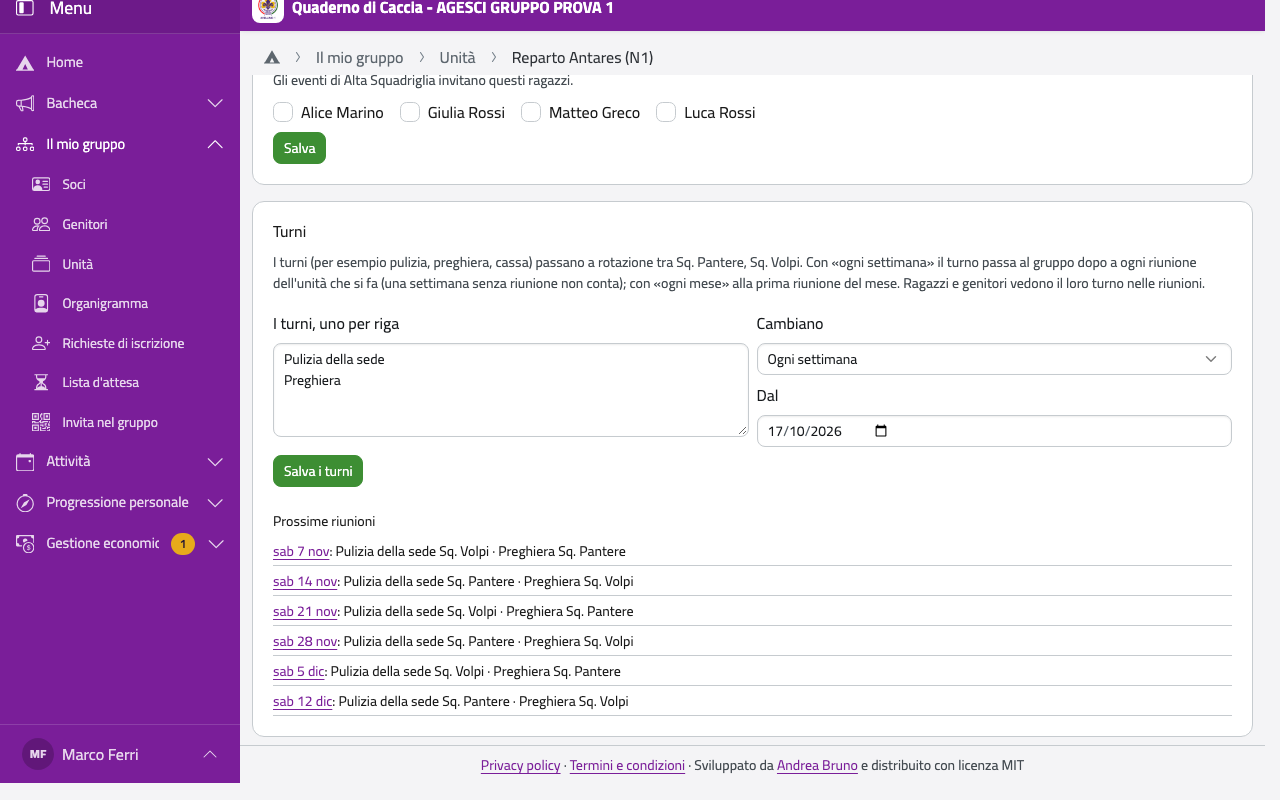
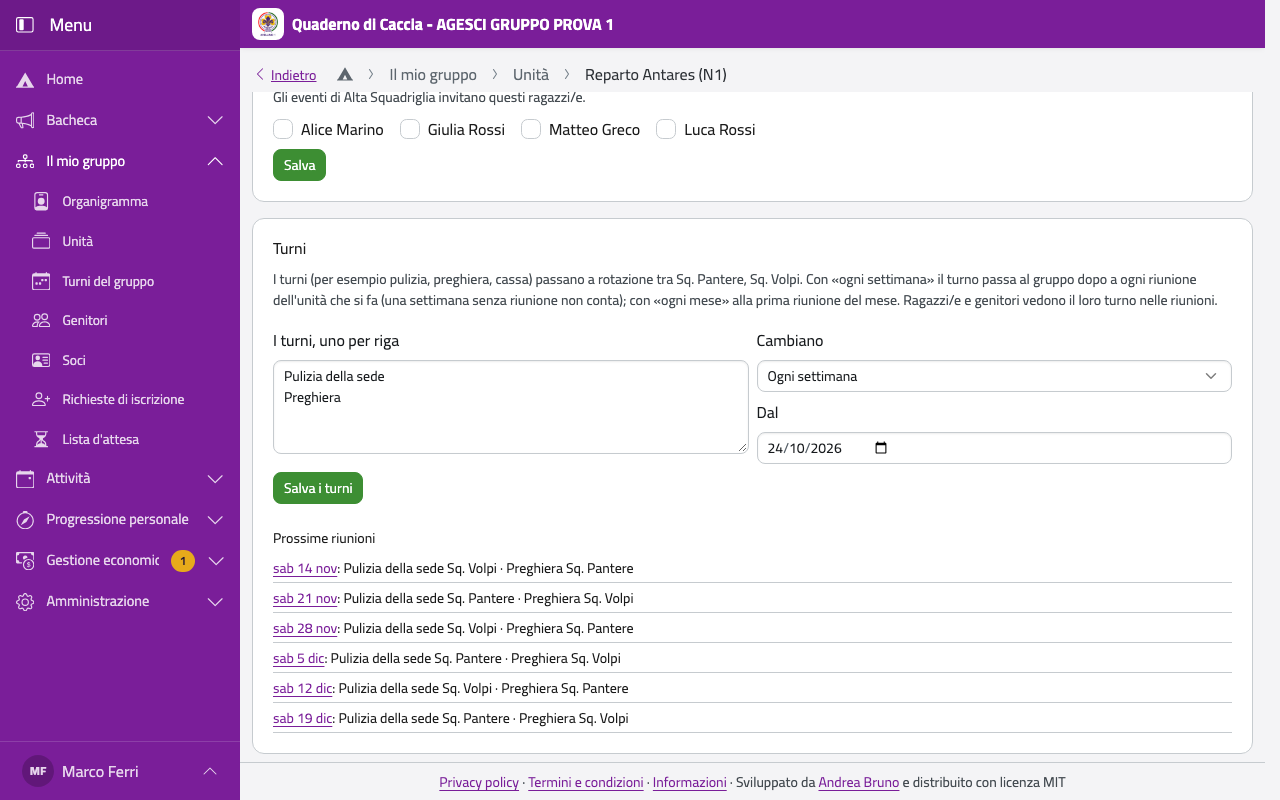
Version 1.29.0
Claude-Session: https://claude.ai/code/session_01FnZgpcJooBVEmvgDLvmkQq

diff --git a/frontend/src/components/Briciole.vue b/frontend/src/components/Briciole.vue
@@ -61,7 +61,7 @@ function indietro() {
   <nav
     v-if="briciole.length"
     aria-label="Percorso"
-    class="container pt-3 d-flex align-items-center gap-3"
+    class="container pt-3 d-flex flex-wrap align-items-center column-gap-3 row-gap-1"
   >
     <button
       v-if="dettaglio"
@@ -71,7 +71,8 @@ function indietro() {
     >
       <Icona nome="chevron-left" />Indietro
     </button>
-    <ol class="breadcrumb mb-0 small min-w-0">
+    <!-- Too long for one line with Indietro: the whole breadcrumb goes below it. -->
+    <ol class="breadcrumb mb-0 small">
       <li class="breadcrumb-item">
         <RouterLink to="/" class="breadcrumb-link" title="Home">
           <Icona nome="tenda" /><span class="visually-hidden">Home</span>

diff --git a/CHANGELOG.md b/CHANGELOG.md
@@ -5,6 +5,34 @@ versione installata e quella nuova prima di chiedere se aggiornare. Il dettaglio
 versione, con il manuale in PDF, è nella pagina
 [Releases](https://github.com/AGESCI-Avellino-1/quaderno-di-caccia/releases).
 
+## 1.29.0 — 14 novembre 2026
+
+### Novità
+
+**Squadriglie archiviate** ([#68](https://github.com/AGESCI-Avellino-1/quaderno-di-caccia/issues/68)): una squadriglia non si chiude più, si archivia, e solo quando è vuota. È per sempre: resta per memoria nella pagina **Squadriglie archiviate**, che si apre dalla pagina del reparto, con il periodo in cui è stata attiva. Una squadriglia nuova può avere lo stesso animale e lo stesso nome, ma è un'altra squadriglia. L'animale di una squadriglia non si cambia: per cambiarlo se ne apre una nuova, ci si spostano i membri e si archivia la vecchia.
+
+**Storia delle squadriglie** ([#68](https://github.com/AGESCI-Avellino-1/quaderno-di-caccia/issues/68)): esploratori e guide hanno una pagina con tutte le squadriglie del loro reparto, di oggi e del passato, con l'animale e gli anni in cui sono state attive, senza nomi di persone. Ci si arriva da **Attività** e da **La mia squadriglia**.
+
+**Dalla progressione alla pagina dell'unità** ([#70](https://github.com/AGESCI-Avellino-1/quaderno-di-caccia/issues/70)): nella Home e nel menu, in **Progressione personale**, il nome dell'unità apre la sua pagina. Nelle pagine di dettaglio (una persona, un'unità, un evento, una progressione) c'è **Indietro**, che riporta alla pagina da cui si arriva.
+
+**Unità collegate in una pagina sola** ([#71](https://github.com/AGESCI-Avellino-1/quaderno-di-caccia/issues/71)): la pagina di un reparto collegato a un altro mostra le squadriglie di tutti e due, ognuna con il nome del suo reparto, e da lì lo staff le gestisce tutte. Con un branco o un cerchio collegato ci sono anche le sue sestiglie e i suoi turni.
+
+**Turni del gruppo** ([#71](https://github.com/AGESCI-Avellino-1/quaderno-di-caccia/issues/71)): in **Il mio gruppo**, **Turni del gruppo** stabilisce turni che passano da un'unità all'altra, per esempio la pulizia della sede, ogni settimana, ogni mese o ogni tre mesi. Un periodo si può dare a mano a un'altra unità. Li stabiliscono i capigruppo e i capi della Comunità capi; capi, ragazzi/e e genitori li vedono sulle riunioni dell'unità a cui tocca.
+
+### Aggiornare
+
+```bash
+scripts/aggiorna.sh v1.29.0
+```
+
+L'aggiornamento migra il database: le squadriglie chiuse diventano archiviate.
+
+### Documentazione
+
+Il manuale spiega l'archiviazione delle squadriglie, la loro storia per i ragazzi/e, le unità collegate, i turni del gruppo e il pulsante **Indietro**. Rifatte le schermate della pagina del reparto, dei turni, della Home e della squadriglia del ragazzo/a.
+
+Provata con i test; non ancora in un browser con dati veri né su un telefono vero. Se qualcosa non va, segnalalo con una issue.
+
 ## 1.28.0 — 10 novembre 2026
 
 ### Novità

diff --git a/docs/installazione/installazione.md b/docs/installazione/installazione.md
@@ -5,12 +5,12 @@
 ```bash
 git clone https://github.com/AGESCI-Avellino-1/quaderno-di-caccia.git /srv/qdc
 cd /srv/qdc
-git checkout v1.28.0
+git checkout v1.29.0
 ```
 
 Installa sempre una **versione rilasciata**: le trovi, con il PDF del manuale d'uso, nella
 pagina [Releases](https://github.com/AGESCI-Avellino-1/quaderno-di-caccia/releases) del
-progetto; al posto di `v1.28.0` metti l'ultima. Il ramo `main` è quello di sviluppo e può
+progetto; al posto di `v1.29.0` metti l'ultima. Il ramo `main` è quello di sviluppo e può
 contenere lavori non ancora provati.
 
 Negli esempi l'installazione è in `/srv/qdc`: se scegli un'altra cartella, cambiala anche

diff --git a/TODO.md b/TODO.md
@@ -2,7 +2,7 @@
 
 Situazione delle [issue](https://github.com/AGESCI-Avellino-1/quaderno-di-caccia/issues) e delle
 [segnalazioni di sicurezza](https://github.com/AGESCI-Avellino-1/quaderno-di-caccia/security/advisories)
-su GitHub, aggiornata il 14/11/2026 (ultima versione: v1.28.0). Le cose ancora aperte del periodo di
+su GitHub, aggiornata il 14/11/2026 (ultima versione: v1.29.0). Le cose ancora aperte del periodo di
 sviluppo sono in [TODO_SVILUPPO.md](TODO_SVILUPPO.md).
 
 ## Aperte
